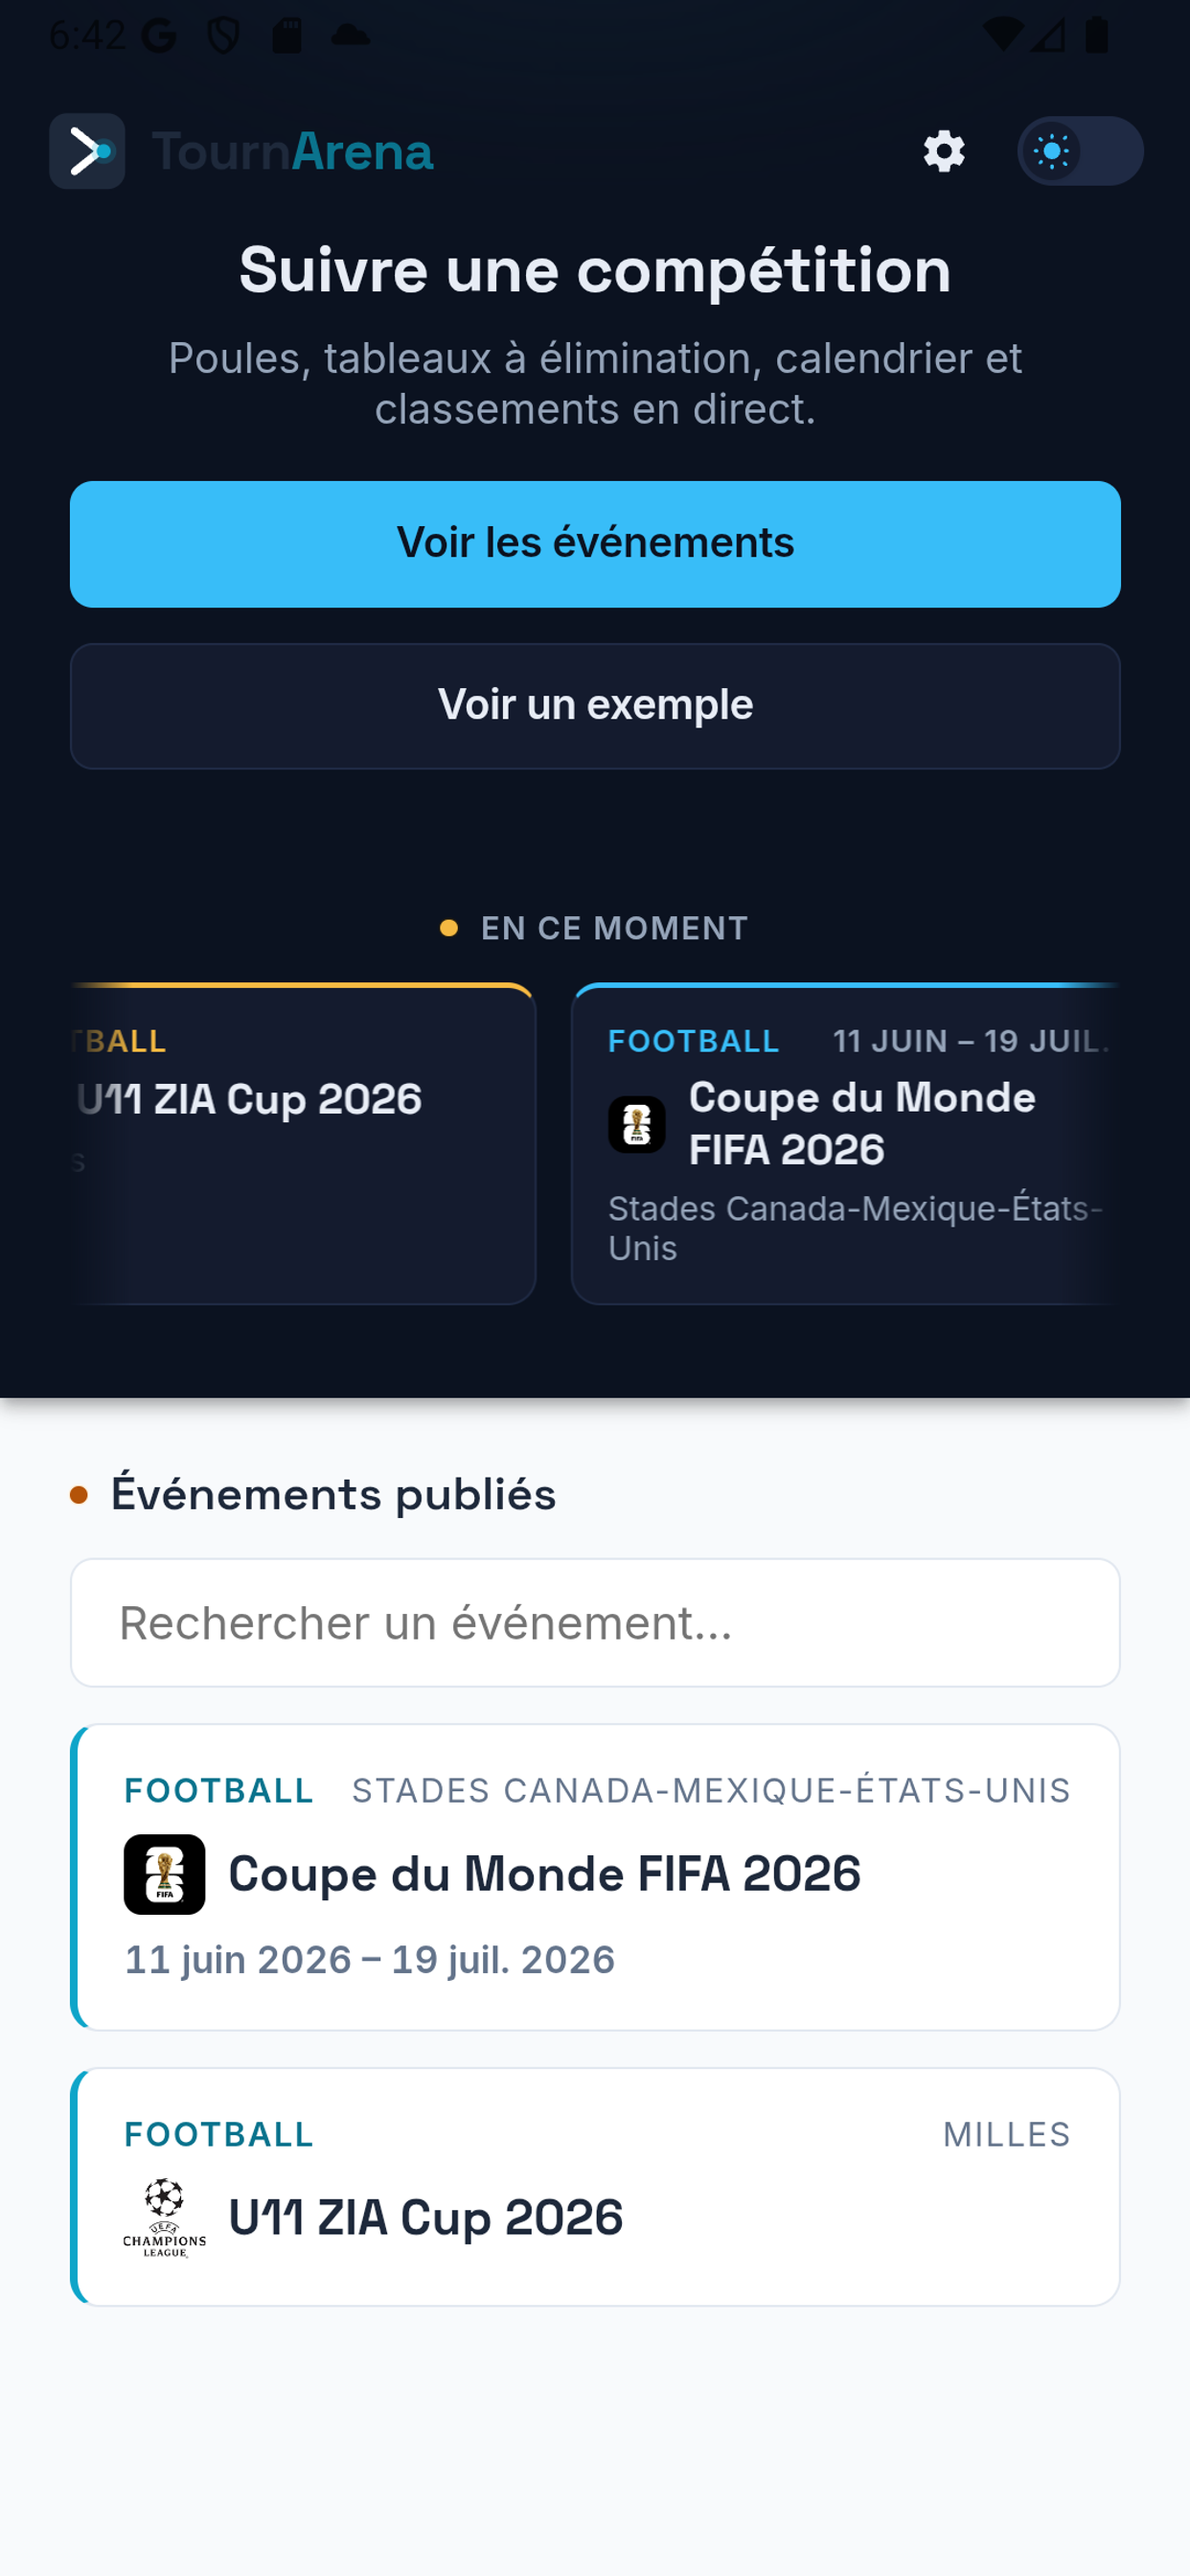
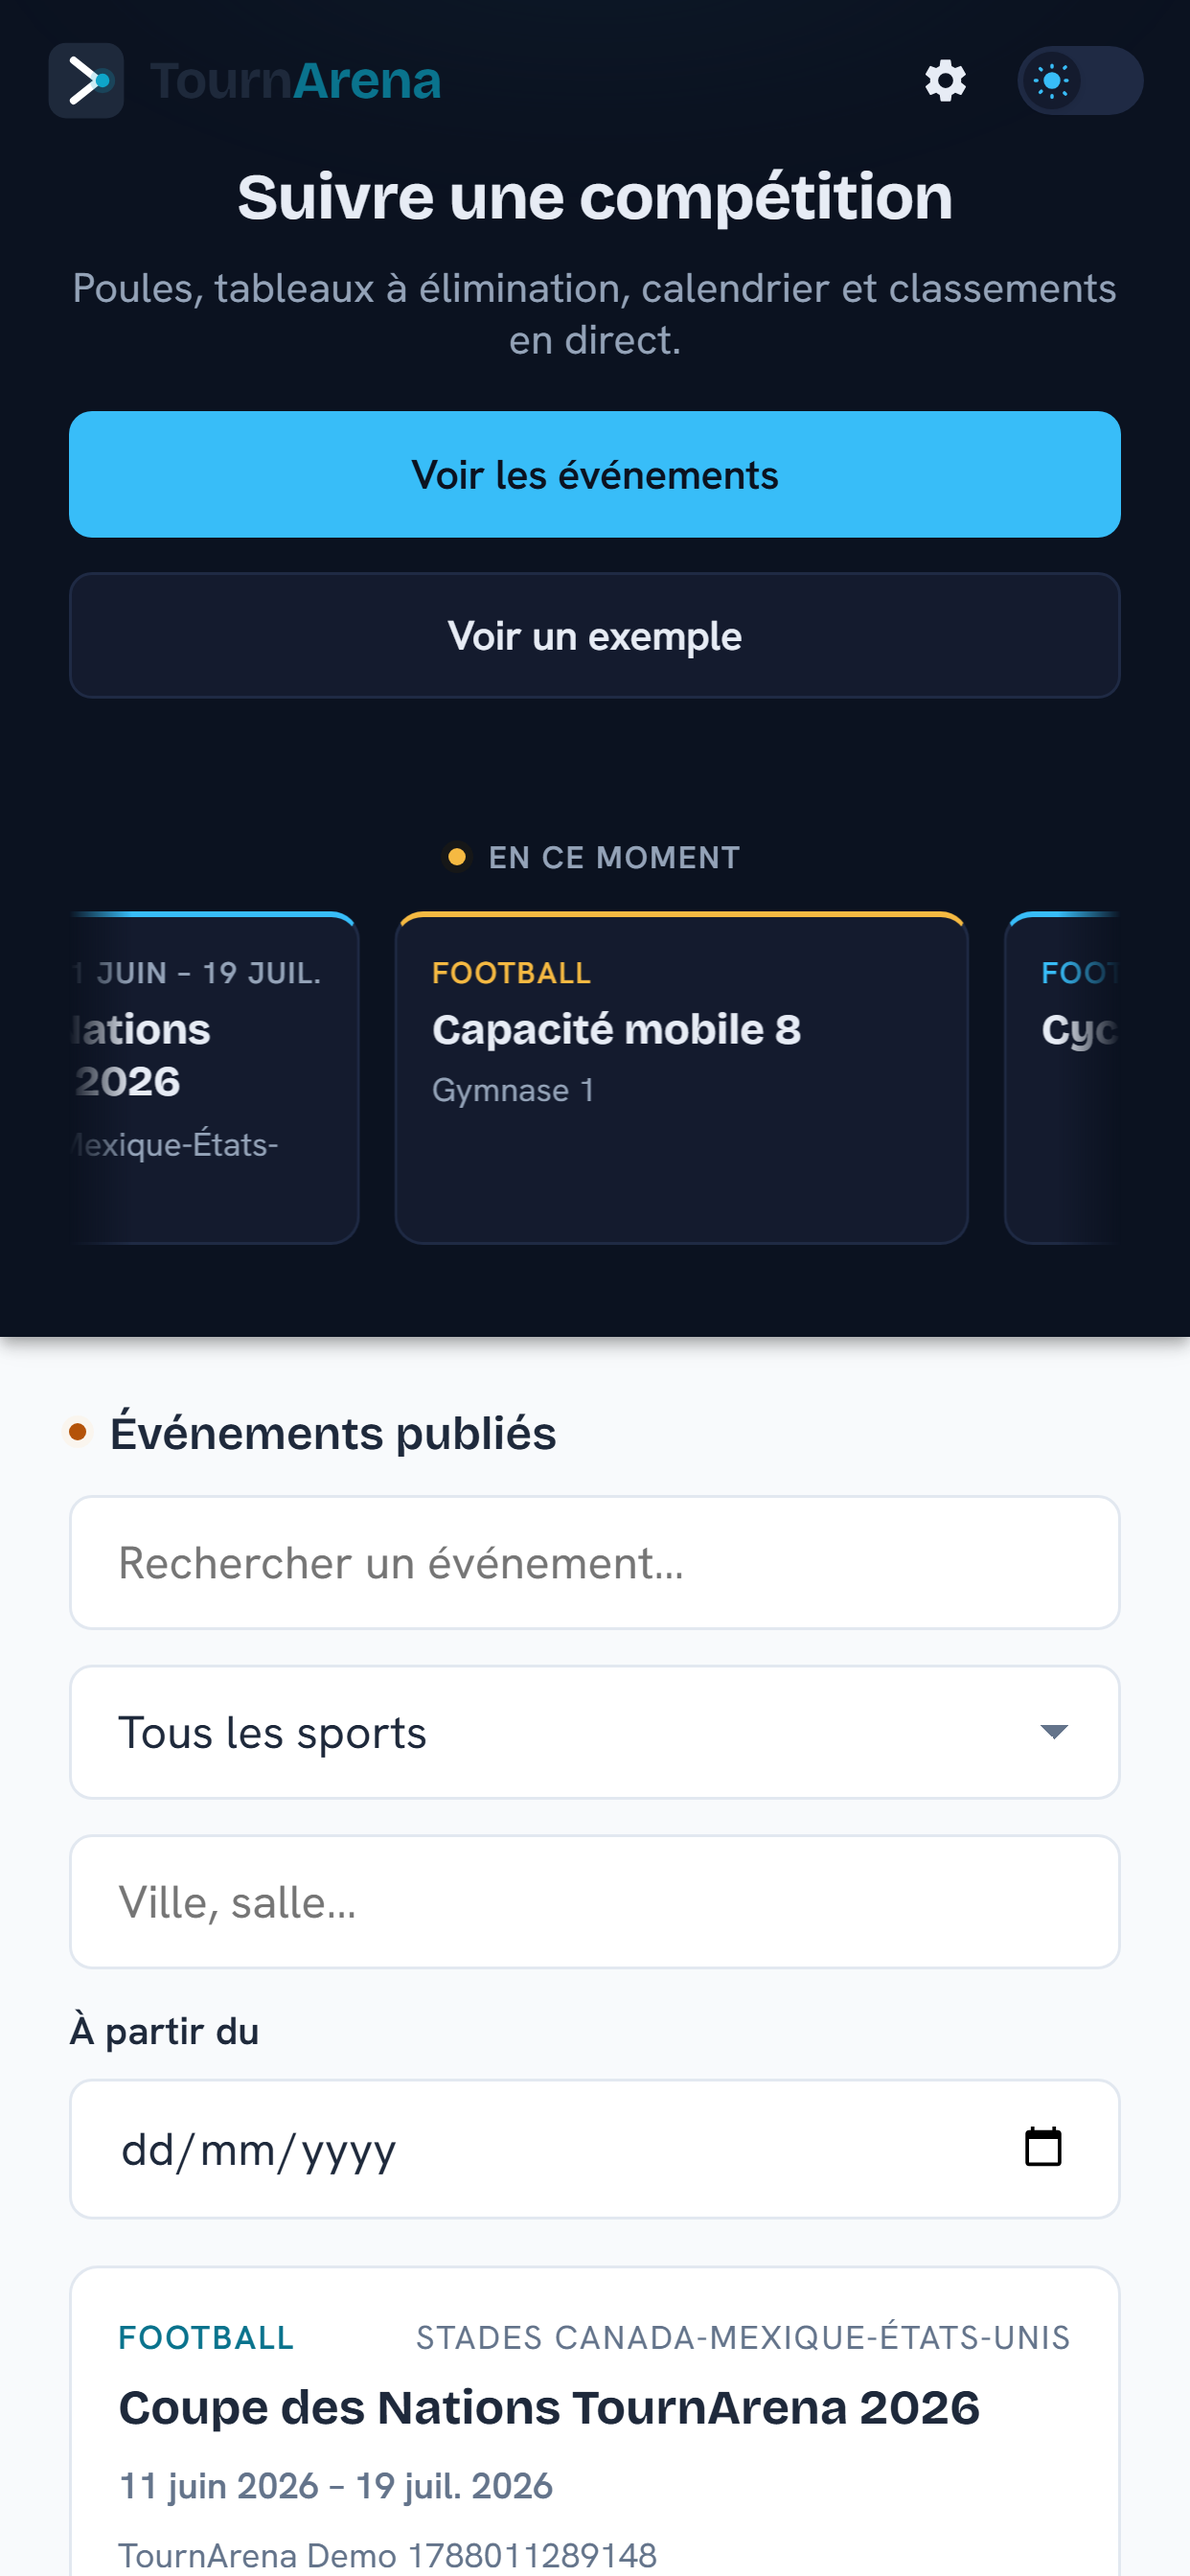
fix(mobile): recapture les visuels App Store/Play Store (2.3.10 + contenu FIFA)
Complète le correctif des rejets Apple App Review (voir le commit
précédent) : les 12 captures d'écran (App Store 6.5"/iPad 13", Play Store)
montraient encore l'ancien tournoi vitrine "Coupe du Monde FIFA 2026"
(nom + logo + description FIFA, guideline 5.2.1) sur une barre de statut
Android capturée à la main (guideline 2.3.10 -- "remove non-iOS status bar
images").

Nouveau script infra/scripts/capture-store-screenshots.mjs : recapture les
4 écrans (découverte, fiche tournoi, phase finale, calendrier) à chaque
taille exigée via un viewport Playwright nu, sans aucun habillage d'OS --
Apple demandait de retirer la barre non-iOS, pas d'en simuler une iOS, donc
une capture sans aucune barre de statut règle directement le point sans
avoir besoin d'un Simulateur iOS (pas de Mac local, cf. ADR 0008). Les
nouvelles captures montrent le tournoi vitrine déjà rebrandé "Coupe des
Nations TournArena 2026" (sans logo, texte réécrit sans mention FIFA).

apps/mobile/store-assets/README.md mis à jour en conséquence.

diff --git a/apps/mobile/store-assets/README.md b/apps/mobile/store-assets/README.md
@@ -1,8 +1,8 @@
 # Visuels des fiches store (Google Play + App Store Connect)
 
-Générés le 2026-08-19, à uploader manuellement dans les deux consoles (aucune des deux
-n'expose d'`<input type="file">` accessible à l'automatisation — le champ n'existe qu'après
-clic, ce qui ouvre le sélecteur natif de l'OS).
+À uploader manuellement dans les deux consoles (aucune des deux n'expose
+d'`<input type="file">` accessible à l'automatisation — le champ n'existe qu'après clic, ce
+qui ouvre le sélecteur natif de l'OS).
 
 ## Contenu
 
@@ -11,15 +11,23 @@ clic, ce qui ouvre le sélecteur natif de l'OS).
 - `play/feature-graphic-1024x500.png` — image de présentation Play Store, rendue via
   Playwright à partir de la géométrie exacte de `libs/design-system/src/lib/logo/`
   (variante `on-dark`, fond `#1e293b`).
-- `play/screenshots/*.png` — 4 captures d'écran téléphone (1080×2400, natif), prises sur
-  l'émulateur Android (`npm run emulator:mobile`) avec les données World Cup 2026 déjà
-  seedées : découverte/recherche de tournoi, fiche tournoi, phase finale (tableau à
-  élimination), calendrier.
-- `app-store/screenshots-6.5in/*.png` — mêmes captures, recadrées (`fit: cover`, crop
-  minimal) à 1242×2688 pour respecter la taille exacte exigée par App Store Connect pour
-  l'iPhone 6,5". Pas de simulateur iOS utilisé (aucun Mac local, cf. ADR 0008) — l'UI
-  Capacitor étant partagée entre les deux plateformes, les captures Android recadrées sont
-  représentatives.
+- `play/screenshots/*.png` (1080×2400), `app-store/screenshots-6.5in/*.png` (1242×2688),
+  `app-store/screenshots-ipad-13in/*.png` (2064×2752) — les mêmes 4 captures (découverte/
+  recherche de tournoi, fiche tournoi, phase finale, calendrier) à chaque taille exigée.
+
+  **Régénérées le 2026-08-29** via `node infra/scripts/capture-store-screenshots.mjs
+  <slug-du-tournoi>` (nécessite `npm run dev:api` + `npm run dev:mobile` déjà lancés, et le
+  tournoi vitrine seedé/mis à jour localement — voir l'en-tête de
+  `apps/api/prisma/seed-world-cup-2026.ts`) plutôt que capturées à la main sur l'émulateur
+  Android comme la toute première version (2026-08-19) : cette 1ère version montrait la
+  barre de statut Android sur les captures App Store (refusé par Apple, guideline 2.3.10 —
+  "remove non-iOS status bar images") et le nom/logo FIFA du tournoi vitrine d'alors
+  (refusé, guideline 5.2.1, voir le rebrand du 2026-08-28 vers "Coupe des Nations
+  TournArena 2026"). Le nouveau script capture directement un viewport Playwright nu, sans
+  aucun habillage d'OS (ni barre Android, ni fausse barre iOS) — Apple demandait de
+  *retirer* la barre non-iOS, pas d'en simuler une iOS, et une capture sans aucune barre de
+  statut satisfait ça directement sans avoir besoin d'un vrai Simulateur iOS (pas de Mac
+  local, cf. ADR 0008).
 
 ## Textes associés (déjà saisis dans les deux consoles au 2026-08-19)
 
@@ -29,7 +37,9 @@ conversation pour le texte exact FR. **Traduction EN encore à faire.**
 
 ## Reste à faire (porteur de projet)
 
-- Uploader ces 10 fichiers dans les deux consoles (glisser-déposer, ~2 min).
+- Uploader les captures d'écran régénérées (12 fichiers : 4 par taille × 3 tailles) dans
+  les deux consoles (glisser-déposer, ~2 min) — remplace les anciennes captures refusées
+  par Apple.
 - Traduire la fiche en anglais (Google Play : ajouter une langue ; App Store Connect :
   ajouter une localisation en-US).
 - Google Play : Data safety, classification du contenu, cible (déclarée adultes
